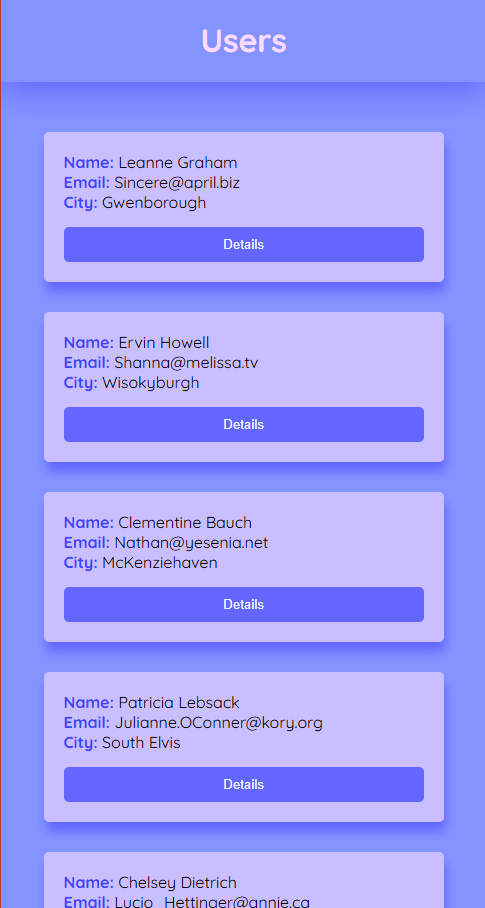
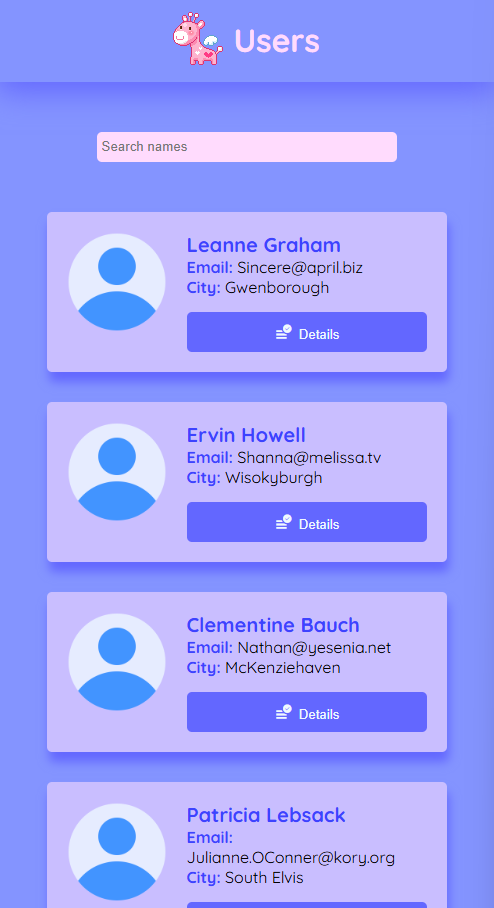
atualizacao prints da tela no readme

diff --git a/src/app/pages/users-list/users-list.html b/src/app/pages/users-list/users-list.html
@@ -1,4 +1,7 @@
 <section class="title">
+<a href="https://www.glitter-graphics.com">
+  <img src="http://dl4.glitter-graphics.net/pub/443/443104zlqqiqq0mg.gif" width=50 height=53 border=0>
+</a>
 <h1>Users</h1>
 </section>
 

diff --git a/src/app/pages/user-detail/user-detail.css b/src/app/pages/user-detail/user-detail.css
@@ -38,9 +38,9 @@
   margin: 0 auto;
   max-width: 400px;
   background-color: #C9BEFF;
-  padding: 5%;
+  padding: 30px;
   border-radius: 5px;
-
+  margin-bottom: 100px;
 }
 
 .img-div{

diff --git a/src/app/pages/users-list/users-list.css b/src/app/pages/users-list/users-list.css
@@ -60,6 +60,8 @@
   justify-content: center;
   color: #FFDBFD;
   box-shadow: 0px 10px 30px 0px #6367FF;
+  align-items: center;
+  gap: 10px;
 }
 
 .name span, .email span, .city span{

diff --git a/README.md b/README.md
@@ -84,6 +84,6 @@ Fiquei bem satisfeita com o resultado final e o processo todo foi muito gostoso!
 A versão atual está assim:  
 ### Tela principal de users
 ![Screenshot of the final site](/src/img/print-site-users.png)
-### Tela de detalhes do usuário
+### Tela de detalhes do usuário id 3
 ![Screenshot of the final site](/src/img/print-site-details.png)
 
